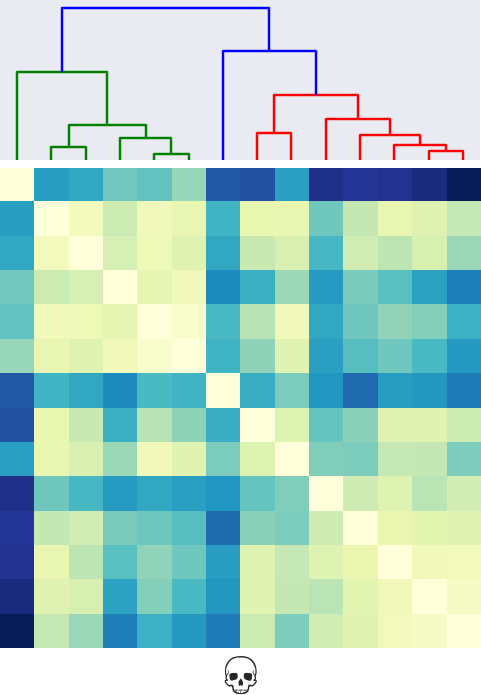
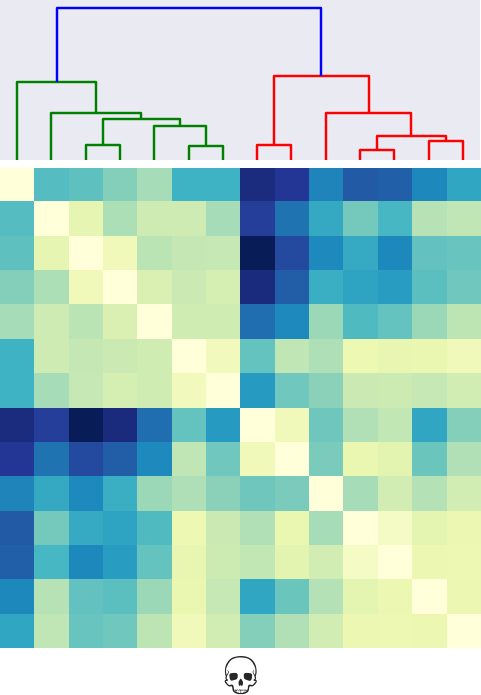
Updated skull

diff --git a/polysem.py b/polysem.py
@@ -5,18 +5,19 @@ import collections
 import emoji
 
 from sklearn.cluster import AffinityPropagation as cluster_clf
-cluster_args = {"damping":0.999}
+cluster_args = {"damping":0.995}
 
 #from sklearn.cluster import KMeans as cluster_clf
 #from sklearn.cluster import MeanShift as cluster_clf
 #cluster_args = {}
 
-max_t  = 20000
+max_t  = 2500
 skip_t = 6
 
 target = "skull"
-target = "Smiling Face With Open Mouth and Smiling Eyes"
-target = "key"
+#target = "Smiling Face With Open Mouth and Smiling Eyes"
+#target = "key"
+#target = "Smiling Face With Halo"
 target = target.lower().replace(" ","_")
 emoji_name = emoji.emojize(":"+target+":", use_aliases=True)
 target = "EMOJI_"+target.lower().replace(" ","_")
@@ -43,13 +44,14 @@ z = clf[target]
 def tweet_iterator(limit=None,skip=None):
     counter = 0
     with open("all_unique_tweets.txt") as FIN:
-        for line in FIN:
+        for k,line in enumerate(FIN):
             if target in line:
 
-                counter += 1                
                 if counter == limit: break
 
-                if skip and counter%skip==0:
+
+                if skip and k%skip==0:
+                    counter += 1                
                     yield line.split()
 
 
